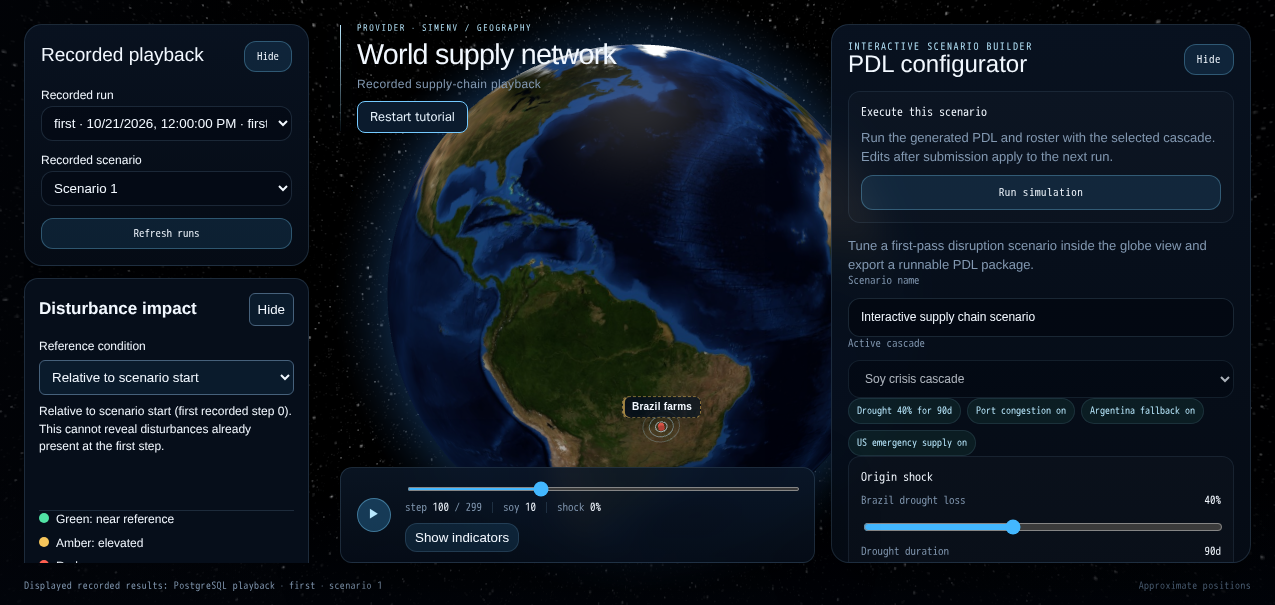
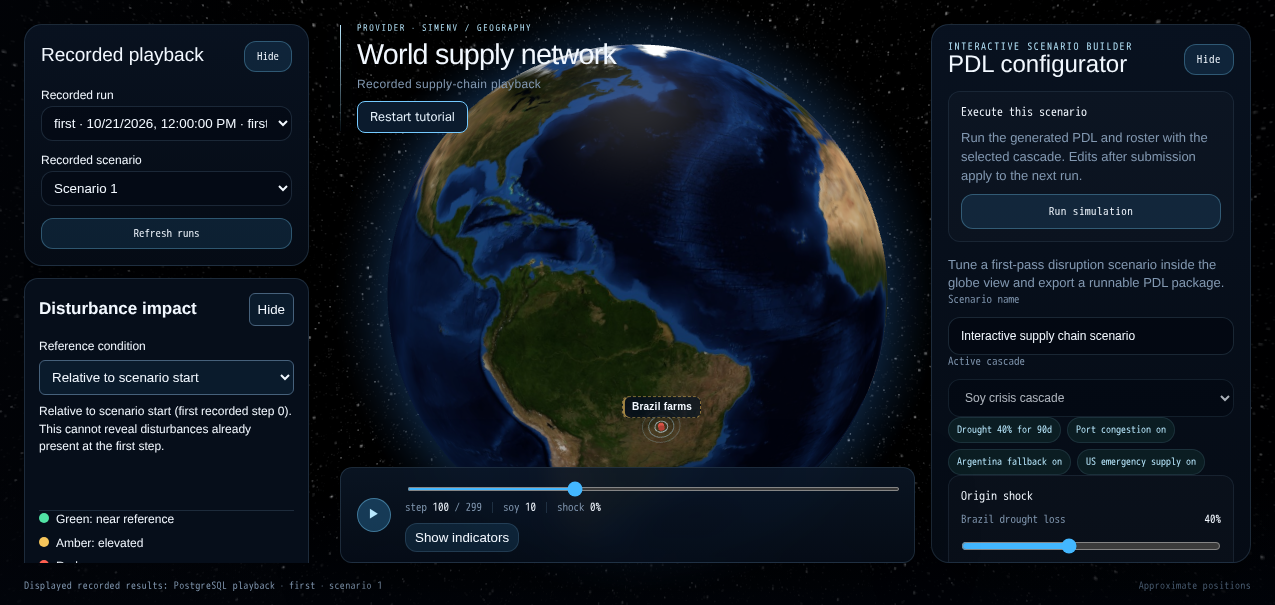
fix: narrow the configurator on medium screens

Changed region(s): [[0.6118, 0.0298, 0.9788, 0.9223], [0.3976, 0.8033, 0.4588, 0.8331], [0.9482, 0.8033, 0.9788, 0.8331]]

diff --git a/web/src/app.css b/web/src/app.css
@@ -253,6 +253,10 @@ body {
   width: 100%; min-height: 0; max-height: none;
 }
 
+@container sim-shell (1160px <= width <= 1500px) {
+  .sim-app { grid-template-columns: 300px minmax(360px, 1fr) 320px; }
+}
+
 @container sim-shell (width < 1160px) or (height <= 540px) {
   /* A scrollable control flow prevents messages from covering submission controls. */
   .sim-app { display: block; overflow-y: auto; padding: 0 0 20px; }

diff --git a/web/src/configurator/configurator.css b/web/src/configurator/configurator.css
@@ -135,6 +135,7 @@
 
 .sim-configurator-field input[type='range'] {
   width: 100%;
+  margin-inline: 0;
   accent-color: var(--sim-color-accent);
 }
 

diff --git a/docs/playback.md b/docs/playback.md
@@ -55,9 +55,15 @@ PostgreSQL and simulation job files have separate named volumes. `docker compose
 
 ### Responsive playback layout
 
-The desktop width budget is **1160 CSS pixels**: 300px left sidebar + 360px
-minimum center column + 420px configurator + two 16px gaps + 48px outer padding.
-The center grows with available width. Below 1160px of available application
+The desktop grid keeps a **300px left sidebar** and a flexible center with a
+**360px minimum**. The configurator is **320px** wide when the named `sim-shell`
+container is **1160–1500 CSS pixels inclusive**, and **420px above 1500px**.
+With two 16px gaps and 48px outer padding, the medium layout's width budget is
+**1060px**, versus 1160px with the wider configurator. The page-flow threshold
+remains conservatively at **1160px**, not the medium layout's exact minimum.
+At 1275px of application width, the center is **575px** wide: the narrower
+configurator gives it 100px more room without changing the left column or center
+minimum. Below 1160px of available application
 width, or at available height **≤540px**, controls use full-width scrollable page
 flow, with the header and restart button before the controls. A docked tutorial
 reduces the available application area, so these layout
@@ -90,17 +96,19 @@ different layout.
 | State | Capture |
 | --- | --- |
 | Before: clean issue #79 HEAD `6add5ef`, timeline overlaps configurator | [Before medium](responsive-before-medium.png) |
-| After: top-aligned side panels, center header, default collapsed cards | [After medium](responsive-after-medium.png) |
+| After: 320px configurator, top-aligned side panels, center header, default collapsed cards | [After medium](responsive-after-medium.png) |
 | After: Show indicators, four-card grid at the viewport's lower edge | [Expanded medium](responsive-expanded-medium.png) |
 | Last tutorial step: temporary reveal, English | [English](responsive-tutorial-en-medium.png) |
 | Last tutorial step: temporary reveal, Deutsch | [Deutsch](responsive-tutorial-de-medium.png) |
 
 The before capture is served from a clean detached worktree at **`6add5ef`**, not
 the older issue #75 server used for the historical tutorial screenshots below.
-The four after captures use the **uncommitted top-alignment working tree** on
-`79-interactive-tutorial`, served on port 5179: side panels at 24px from the
-application top and a normal-flow center title/restart header. They include changes
-beyond HEAD `94c2ff6`; that commit alone does not reproduce these images. Both use
+The four refreshed after captures use the **uncommitted narrower-configurator
+working tree beyond `8254dab`** on `79-interactive-tutorial`, served on port 5179:
+a 320px configurator, 575px center, side panels at 24px from the application top,
+and a normal-flow center title/restart header. They supersede the earlier
+top-alignment captures made beyond `94c2ff6`; neither commit alone reproduces
+these refreshed images. The original before PNG is preserved byte-for-byte. Both use
 the same **controlled recorded-response fixtures** from `playback-fixtures.mjs`:
 run `first`, scenario 1, paused step 100, component `brazil_farms`, scenario-start
 reference, expanded configurator. These are interface fixtures, not empirical
@@ -121,13 +129,16 @@ SIMENV_BASELINE_WEB_URL=http://127.0.0.1:5181 \
 SIMENV_WEB_URL=http://127.0.0.1:5179 \
 SIMENV_TEST_PLAYBACK_ORIGIN=http://127.0.0.1:8079 \
   node tests/capture-responsive-playback.mjs
+# Preserve the existing before image after the script regenerates the matched set:
+git -C .. restore -- docs/responsive-before-medium.png
 ```
 
 The capture script reuses playback fixtures and their browser-setup completion
 seed, checks the expected baseline/default toggle state, and logs panel geometry.
-Visual review confirms baseline overlap, top-aligned after side panels, the center
-title/restart header and separated columns, plus the expanded cards and readable
-EN/DE final-step guidance. At this short viewport the expanded grid reaches the
+Visual review confirms top-aligned after side panels, the center title/restart
+header and separated columns, plus readable configurator labels, buttons, inputs
+and range controls within 320px. The expanded cards and EN/DE final-step guidance
+remain readable. At this short viewport the expanded grid reaches the
 lower image edge; scroll for its remaining content. Tutorial navigation can scroll
 the sidebar contents while the panel containers still start at 24px.
 The older tutorial/status screenshots remain historical evidence of their stated

diff --git a/web/README.md b/web/README.md
@@ -13,9 +13,13 @@ keeping the central globe clear. Both panels start expanded and have independent
 share one scroll area, including on short windows. On smaller screens they use
 the page's full-width scrollable layout without nested panel scrolling.
 The globe stays still until you drag it; scroll to zoom. Automatic rotation is disabled.
-The desktop grid coordinates a 300px left column, at least 360px of center space
-for the timeline, and a 420px configurator, plus two 16px gaps and 48px outer
-padding: a 1160 CSS-pixel minimum width budget. Both sidebars start 24px from the
+The desktop grid keeps a 300px left column and a flexible center with a 360px
+minimum. In the named `sim-shell` container, the configurator is 320px wide at
+1160–1500 CSS pixels inclusive and 420px above 1500px. With two 16px gaps and
+48px outer padding, the medium layout budget is 1060px (1160px with the wider
+configurator); the page-flow threshold remains conservatively at 1160px.
+At 1275px, the center is 575px wide, gaining the 100px freed by the configurator.
+Both sidebars start 24px from the
 application top and span the header, globe and timeline rows with their own
 scrolling. The title and **Restart tutorial** stay in a normal-flow center header;
 the timeline stays between the sidebars. Below

diff --git a/README.md b/README.md
@@ -34,8 +34,12 @@ single scenario submitted. Scenario-start comparison remains explicit. See the
 [workshop status rules](docs/playback.md#workshop-status-and-references).
 
 Playback uses coordinated left controls, a center timeline, and a right
-configurator when at least 1160 CSS pixels of application width are available;
-both side panels start 24px from the application top, beside a normal-flow center
+configurator when at least 1160 CSS pixels of application width are available.
+The configurator is 320px wide through 1500px of available application width
+and 420px above that, giving the flexible center 100px more room on medium screens.
+The left sidebar stays 300px wide and the center retains its 360px minimum.
+The 1160px page-flow threshold remains conservative despite the smaller medium layout budget.
+Both side panels start 24px from the application top, beside a normal-flow center
 header containing the title and **Restart tutorial**. Narrow or very short layouts
 use scrollable page flow, with that header before the controls. Network indicator cards
 start collapsed when the viewport is at most 1500px wide **or** 800px high.
